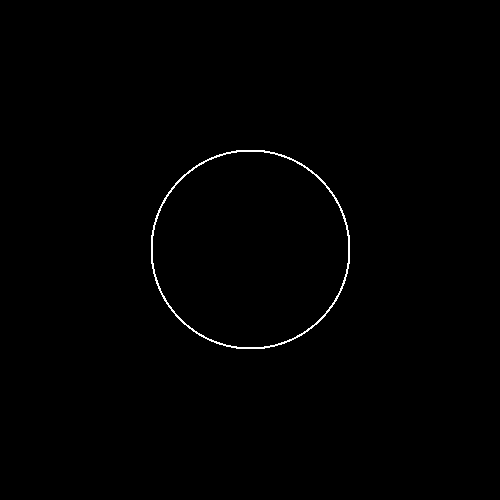
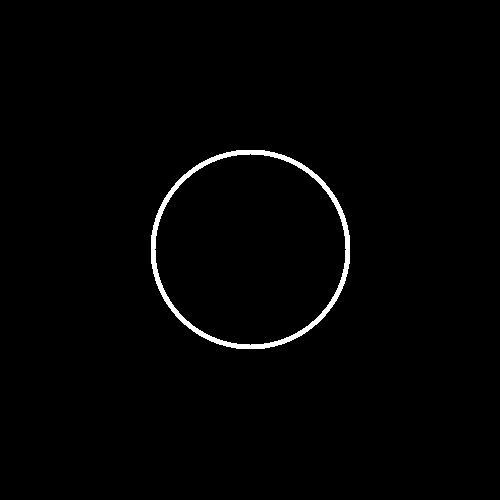
rosace

diff --git a/src/main.cpp b/src/main.cpp
@@ -165,35 +165,45 @@ void disk()
 }
 
 // CERCLE
-void circle()
+void circle(sil::Image &image, int cx, int cy, int thickness)
 {
-    sil::Image image{500, 500};
-    float a = image.width() / 2;
-    float b = image.height() / 2;
-    float r = 100;
-    int thickness = 5;
+    int r = 100 ;
     for (int x = 0; x < image.width(); x++)
     {
         for (int y = 0; y < image.height(); y++)
         {
-            if (std::pow((x - a), 2) + std::pow((y - b), 2) < (r * r))
+            float dist2 = std::pow(x - cx, 2) + std::pow(y - cy, 2);
+            if (dist2 < r * r && dist2 > std::pow(r - thickness, 2))
             {
-                if (std::pow((x - a), 2) + std::pow((y - b), 2) < ((r - thickness) * (r - thickness)))
-                {
-                    image.pixel(x, y) = glm::vec3{0, 0, 0};
-                }
-                else
-                {
-                    image.pixel(x, y) = glm::vec3{1, 1, 1};
-                }
+                image.pixel(x, y) = glm::vec3{1, 1, 1};
             }
         }
     }
-    image.save("output/circle.png");
+}
+
+// ROSACE
+void rosace()
+{
+    sil::Image image{500, 500};
+    int center_x = image.width() / 2.0f;
+    int center_y = image.height() / 2.0f;
+    int r = 100;
+    int thickness = 5;
+
+    circle(image, 250, 250, 5);
+    for (int k = 0; k < 6; k++)
+    {
+        float angle = k * (3.14159265f / 3.0f);
+        int a = center_x + r * std::cos(angle);
+        int b = center_y + r * std::sin(angle);
+        circle(image, a, b, thickness);
+    }
+
+    image.save("output/rosace.png");
 }
 
 int main()
 {
     sil::Image image{"images/photo.jpg"};
-    circle();
+    rosace();
 }
